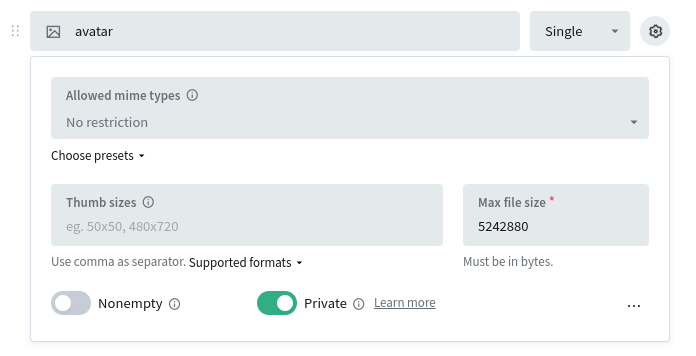
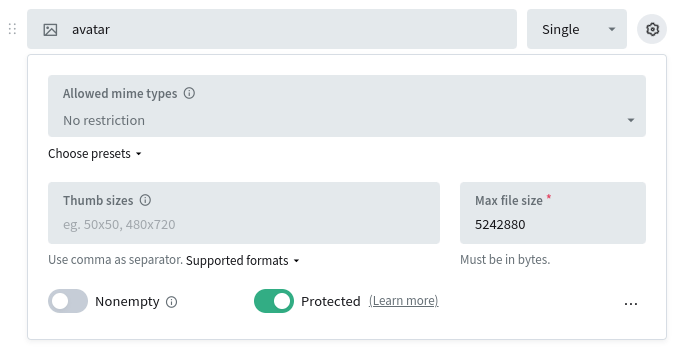
replaced private with protected

diff --git a/src/routes/(app)/docs/files-handling/+page.svelte b/src/routes/(app)/docs/files-handling/+page.svelte
@@ -250,7 +250,7 @@
     <div class="content">
         <p>
             Only requests that satisfy the <strong>View API rule</strong> of the record collection will be able
-            to access or download the private file(s).
+            to access or download the protected file(s).
         </p>
     </div>
 </div>
@@ -271,7 +271,7 @@
         // generate a file token
         const fileToken = await pb.files.getToken();
 
-        // retrieve an example private file url (will be valid ~5min)
+        // retrieve an example protected file url (will be valid ~5min)
         const record = await pb.collection('example').getOne('RECORD_ID');
         const url = pb.files.getUrl(record, record.myPrivateFile, {'token': fileToken});
     `}
@@ -288,7 +288,7 @@
         // generate a file token
         final fileToken = await pb.files.getToken();
 
-        // retrieve an example private file url (will be valid ~5min)
+        // retrieve an example protected file url (will be valid ~5min)
         final record = await pb.collection('example').getOne('RECORD_ID');
         final url = pb.files.getUrl(record, record.getStringValue('myPrivateFile'), token: fileToken);
     `}

diff --git a/src/routes/(app)/docs/api-files/Download.svelte b/src/routes/(app)/docs/api-files/Download.svelte
@@ -117,10 +117,10 @@
                 </td>
                 <td valign="top">
                     Optional <strong>file token</strong> for granting access to
-                    <strong>private file(s)</strong>.
+                    <strong>protected file(s)</strong>.
                     <br />
                     For an example, you can check
-                    <a href="/docs/files-handling/#private-files">"Files upload and handling"</a>.
+                    <a href="/docs/files-handling/#protected-files">"Files upload and handling"</a>.
                 </td>
             </tr>
         </tbody>

diff --git a/src/routes/(app)/docs/api-files/Token.svelte b/src/routes/(app)/docs/api-files/Token.svelte
@@ -29,13 +29,13 @@
 
 <Accordion single>
     <svelte:fragment slot="header">
-        <strong>Generate private file token</strong>
+        <strong>Generate protected file token</strong>
     </svelte:fragment>
 
     <div class="content m-b-base">
         <p>
             Generates a <strong>short-lived file token</strong> for accessing
-            <strong>private protected file(s)</strong>.
+            <strong>protected file(s)</strong>.
         </p>
         <p>
             The client must be admin or auth record authenticated (aka. have regular authorization token sent
